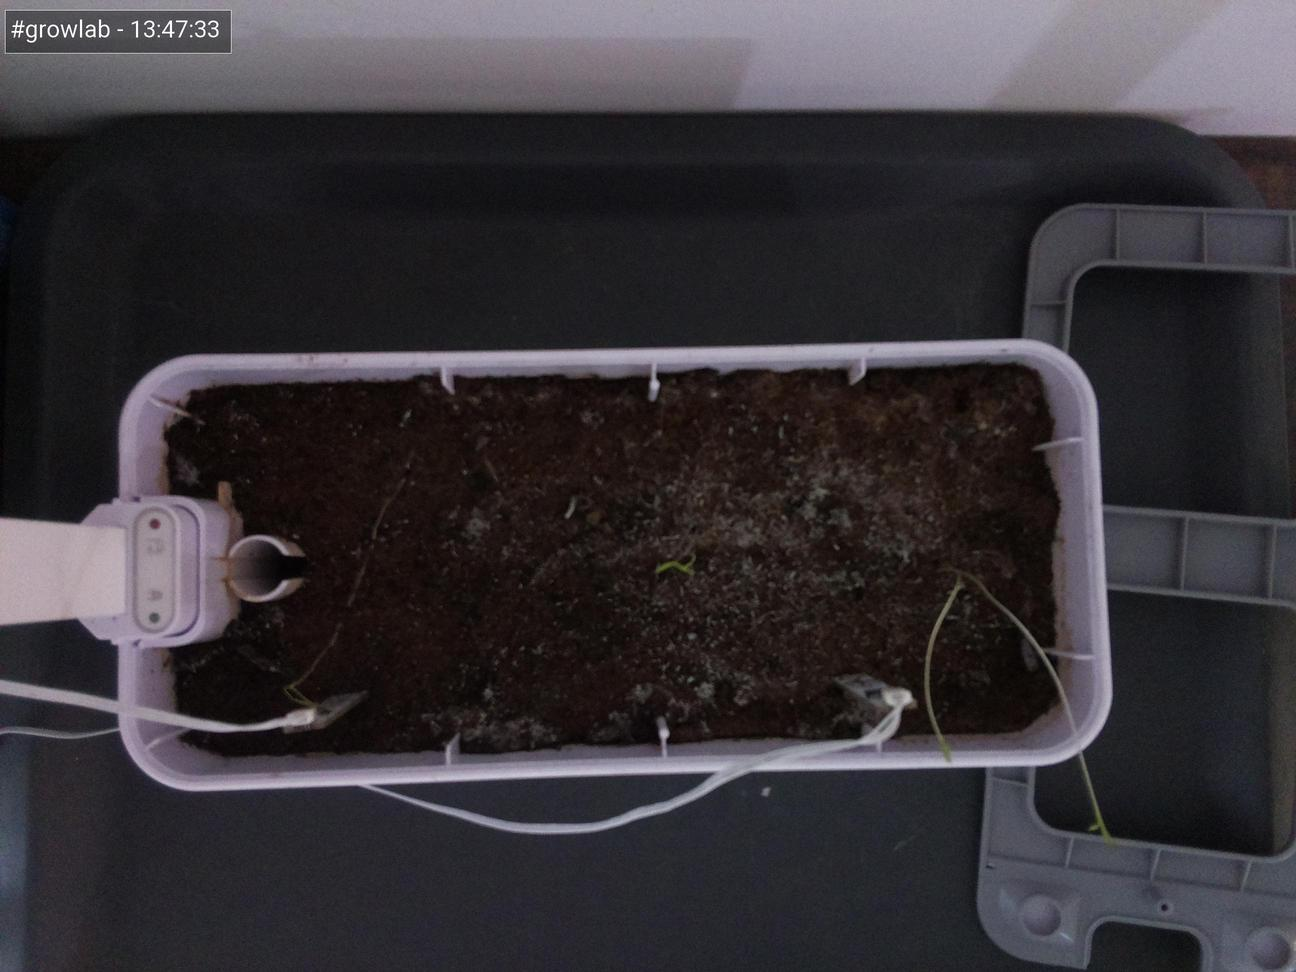
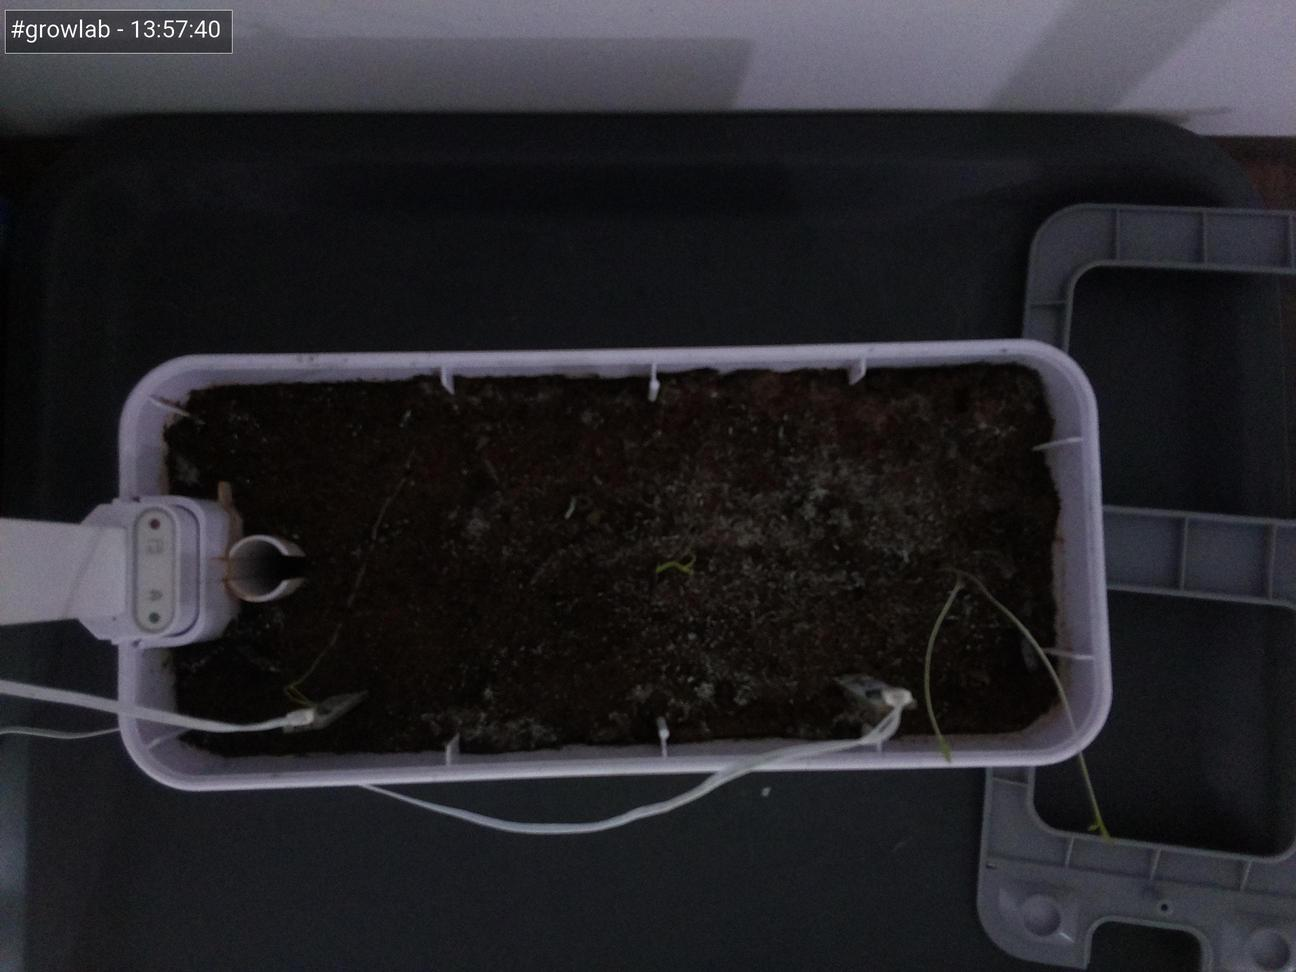
Update images at Mon 15 Nov 13:57:43 GMT 2021

diff --git a/docs/index.html b/docs/index.html
@@ -47,7 +47,7 @@
                         <tbody>
                             <tr>
                                 <td>Time</td>
-                                <td>13:47:33</td>
+                                <td>13:57:40</td>
                             </tr>
                             <tr>
                                 <td>Temperature</td>
@@ -67,7 +67,7 @@
 
                 <h5>Latest image</h5>
                 <div style="width: 85%;">
-                            <img class="figure-img img-fluid rounded" src="./preview.jpg?uid=1636984056.5773351">
+                            <img class="figure-img img-fluid rounded" src="./preview.jpg?uid=1636984663.7754807">
                 </div>
             </div>
         </div>
